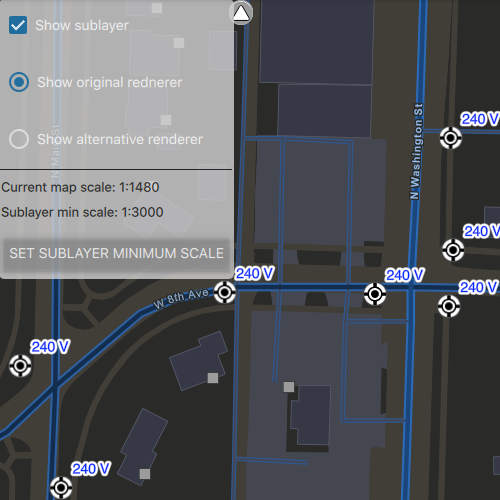
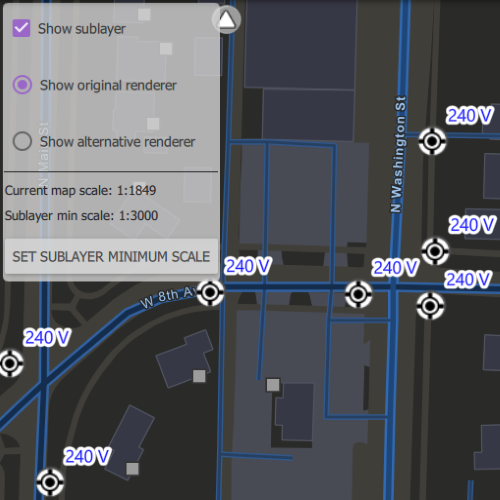
And11760/subtype feature layer typo fix (#1251)
* The Sublayer min scale value was adjusted to be preceded by "1:". This is so that the C++ sample is consistent with the QML sample.

* screenshot.png in ...\ArcGISRuntimeSDKQt_CppSamples\Layers\DisplaySubtypeFeatureLayer\ has been replaced with an updated version where the typo "Show original rednerer" has been changed to "Show original renderer".

* Screeshot size changed to 500px500px

diff --git a/ArcGISRuntimeSDKQt_CppSamples/Layers/DisplaySubtypeFeatureLayer/DisplaySubtypeFeatureLayer.qml b/ArcGISRuntimeSDKQt_CppSamples/Layers/DisplaySubtypeFeatureLayer/DisplaySubtypeFeatureLayer.qml
@@ -102,7 +102,7 @@ Item {
                 }
 
                 Text {
-                    text: qsTr("Sublayer min scale: %1".arg(model.sublayerMinScale > 0.0 ? Math.round(model.sublayerMinScale) : "not set"))
+                    text: qsTr("Sublayer min scale: 1:%1".arg(model.sublayerMinScale > 0.0 ? Math.round(model.sublayerMinScale) : "not set"))
                     Layout.margins: 2
                     Layout.alignment: Qt.AlignLeft
                 }
